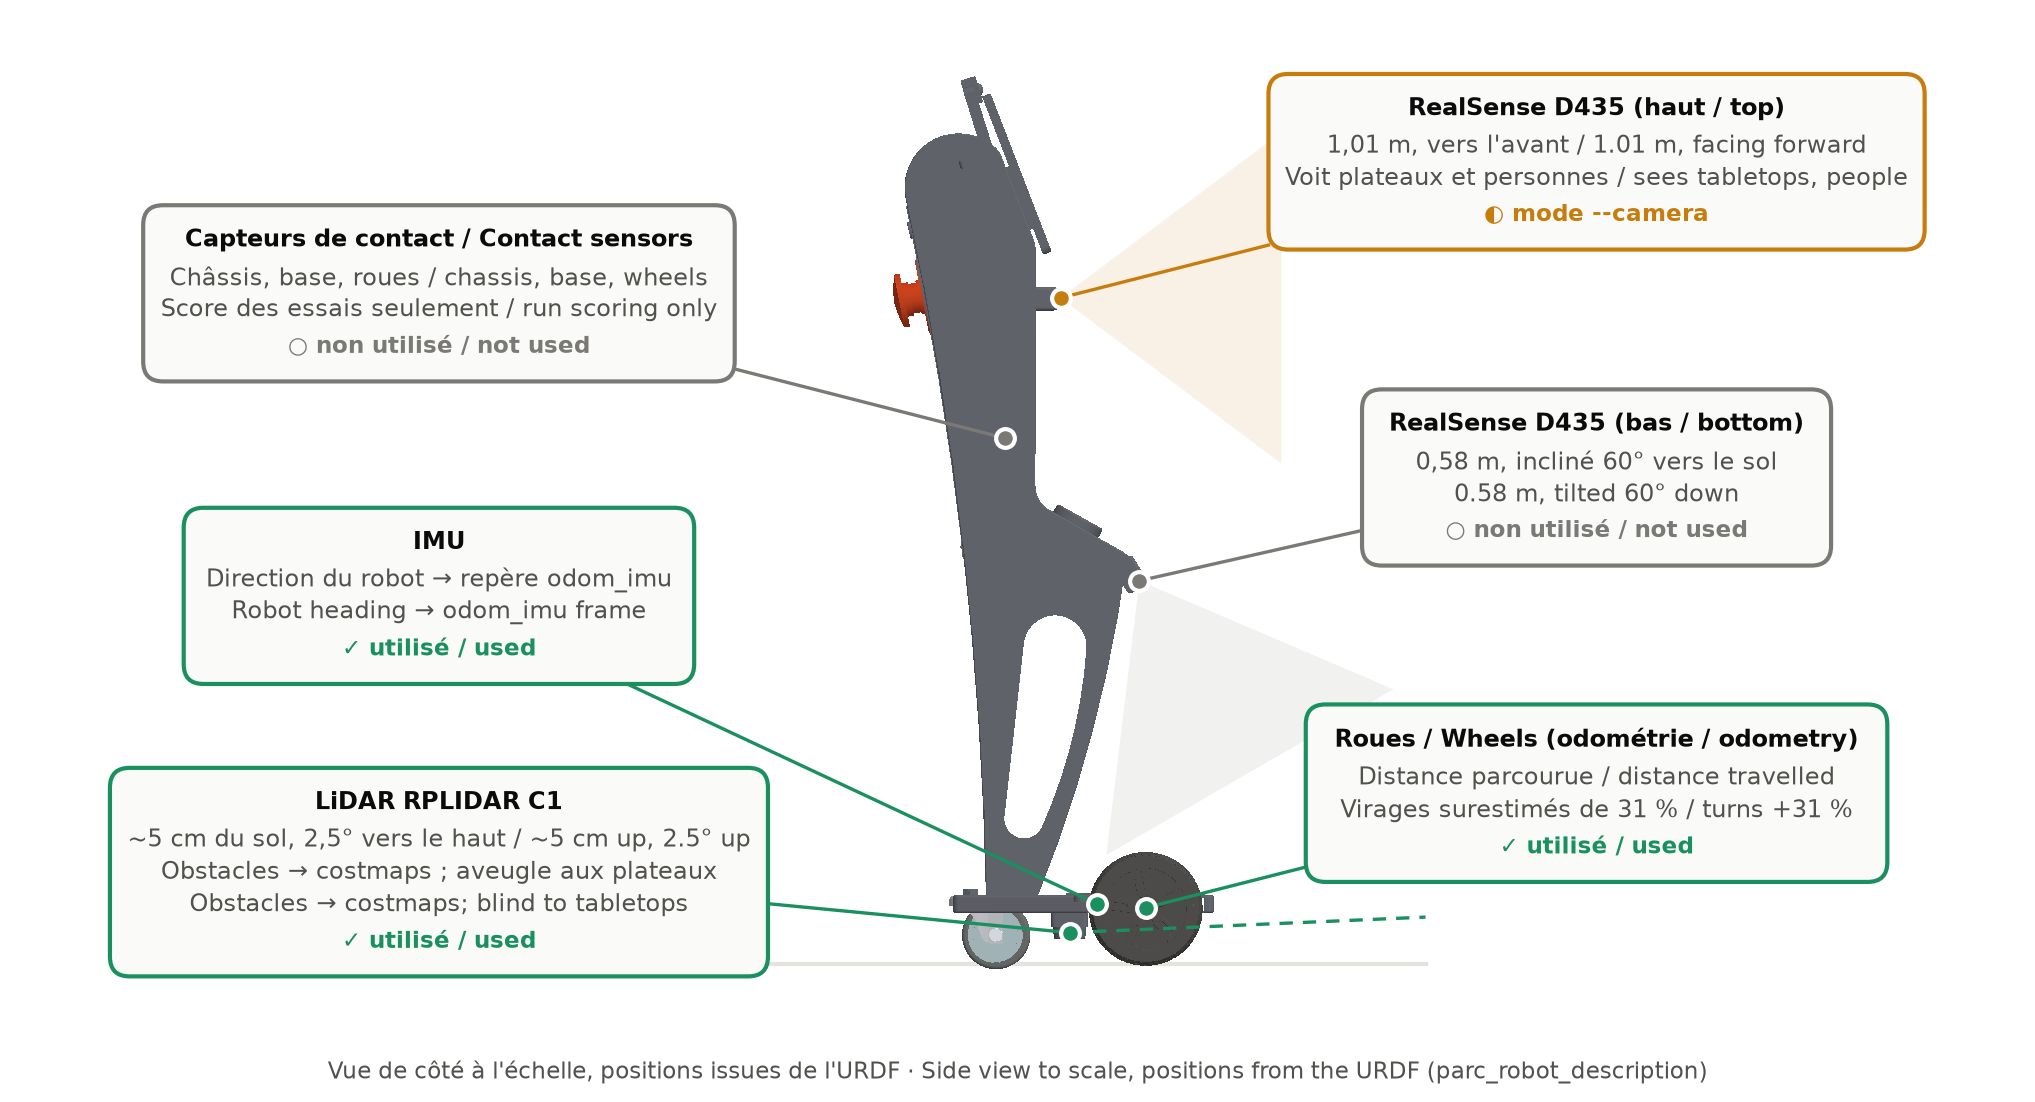
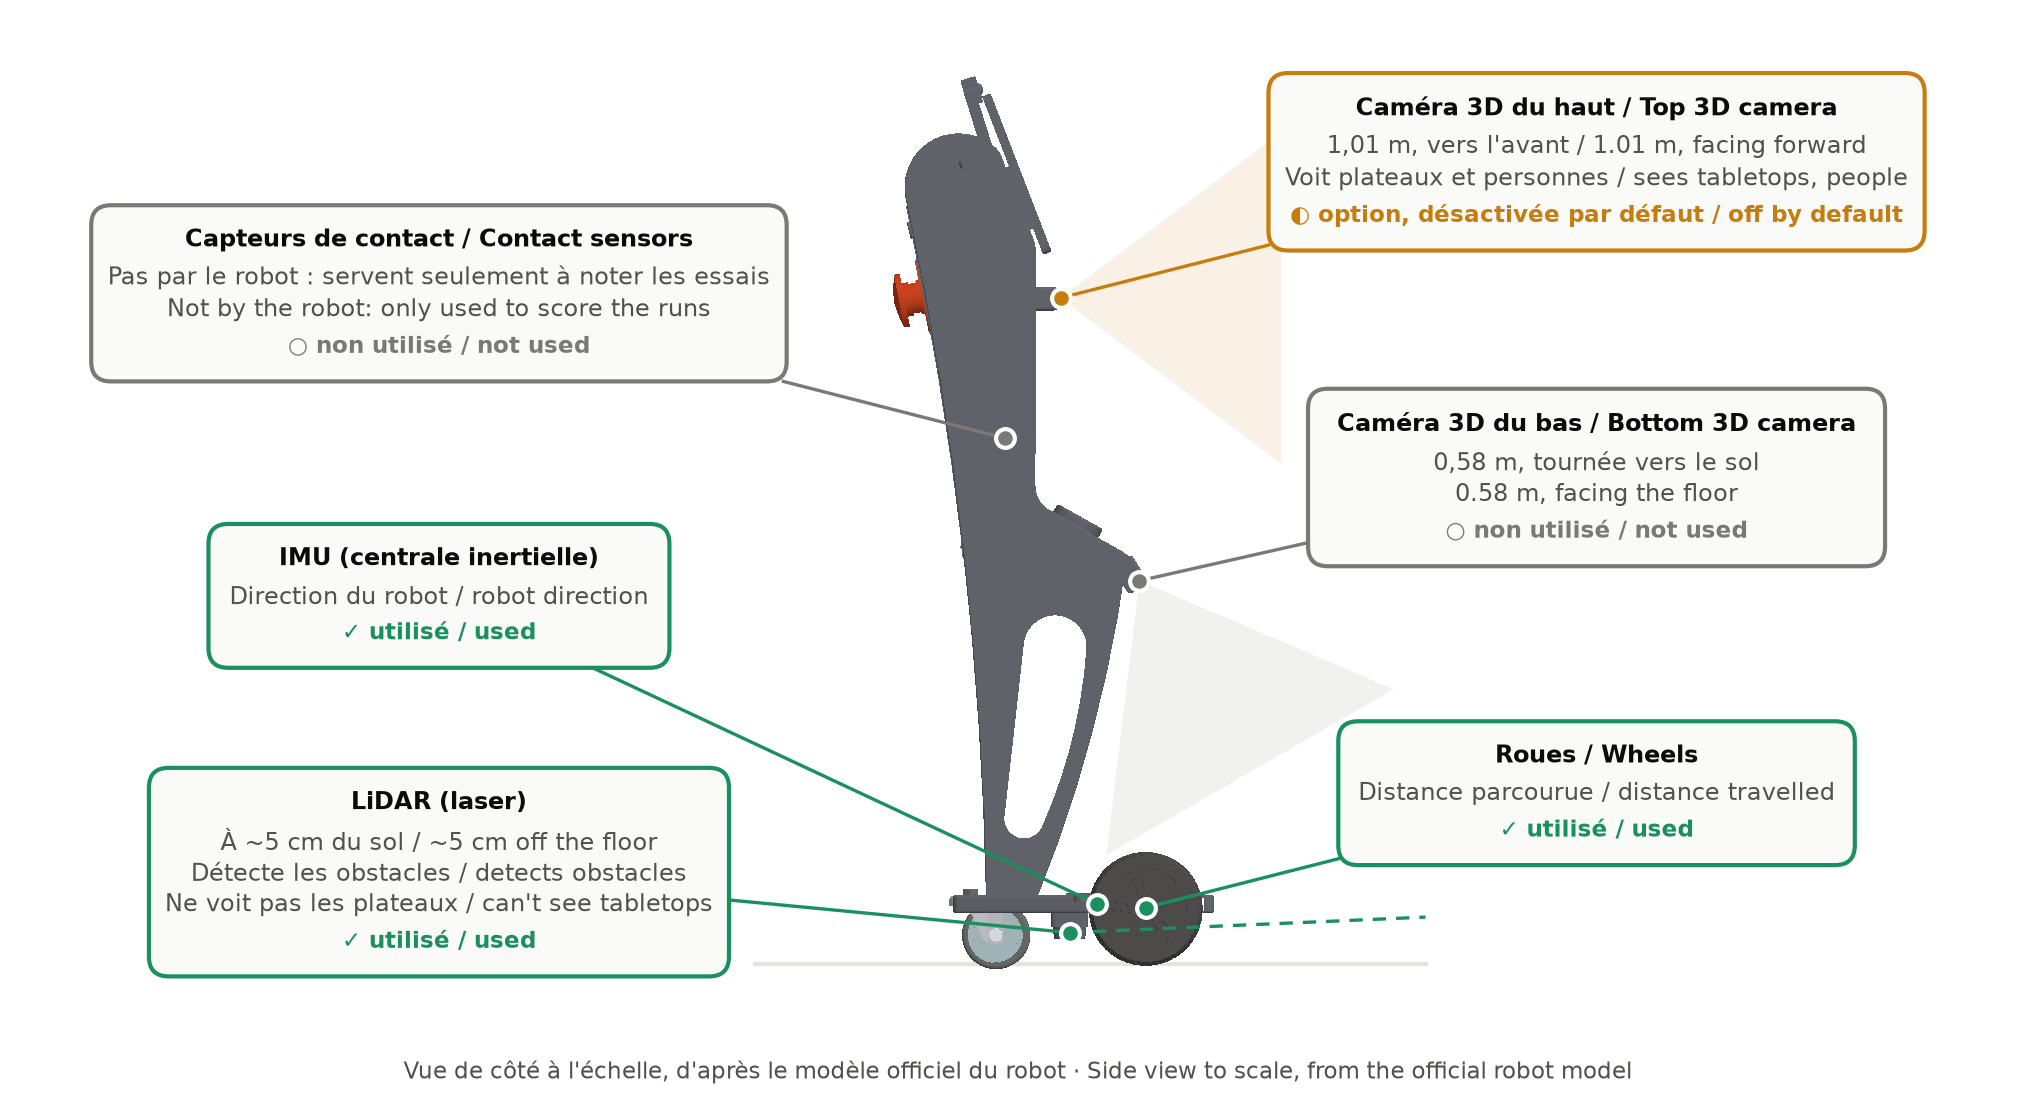
Sensor figure: plain-language callouts for use as an intro slide

diff --git a/solution/tools/robot_sensors.py b/solution/tools/robot_sensors.py
@@ -20,7 +20,7 @@ OUT = sys.argv[1] if len(sys.argv) > 1 else os.path.join(os.path.dirname(os.path
 SURFACE, INK, INK2, GRID = "#ffffff", "#0b0b0b", "#52514e", "#e4e3df"
 STATUS = {  # colour + text tag: identity is never colour alone
     "used": ("#1a8f5f", "✓ utilisé / used"),
-    "camera": ("#c77c0e", "◐ mode --camera"),
+    "camera": ("#c77c0e", "◐ option, désactivée par défaut / off by default"),
     "unused": ("#7a7975", "○ non utilisé / not used"),
 }
 
@@ -32,25 +32,23 @@ TOP_CAM = (-0.035, 1.013)
 BOTTOM_CAM = (0.085, 0.583)
 CHASSIS = (-0.12, 0.80)
 
-CALLOUTS = [  # (anchor, box centre, status, title, lines)
-    (TOP_CAM, (0.78, 1.22), "camera", "RealSense D435 (haut / top)",
+CALLOUTS = [  # (anchor, box centre, status, title, lines) — plain words: this is an intro slide
+    (TOP_CAM, (0.78, 1.22), "camera", "Caméra 3D du haut / Top 3D camera",
      ["1,01 m, vers l'avant / 1.01 m, facing forward",
       "Voit plateaux et personnes / sees tabletops, people"]),
-    (BOTTOM_CAM, (0.78, 0.74), "unused", "RealSense D435 (bas / bottom)",
-     ["0,58 m, incliné 60° vers le sol", "0.58 m, tilted 60° down"]),
-    (WHEEL, (0.78, 0.26), "used", "Roues / Wheels (odométrie / odometry)",
-     ["Distance parcourue / distance travelled",
-      "Virages surestimés de 31 % / turns +31 %"]),
+    (BOTTOM_CAM, (0.78, 0.74), "unused", "Caméra 3D du bas / Bottom 3D camera",
+     ["0,58 m, tournée vers le sol", "0.58 m, facing the floor"]),
+    (WHEEL, (0.78, 0.26), "used", "Roues / Wheels",
+     ["Distance parcourue / distance travelled"]),
     (CHASSIS, (-0.98, 1.02), "unused", "Capteurs de contact / Contact sensors",
-     ["Châssis, base, roues / chassis, base, wheels",
-      "Score des essais seulement / run scoring only"]),
-    (IMU, (-0.98, 0.56), "used", "IMU",
-     ["Direction du robot → repère odom_imu",
-      "Robot heading → odom_imu frame"]),
-    (LIDAR, (-0.98, 0.14), "used", "LiDAR RPLIDAR C1",
-     ["~5 cm du sol, 2,5° vers le haut / ~5 cm up, 2.5° up",
-      "Obstacles → costmaps ; aveugle aux plateaux",
-      "Obstacles → costmaps; blind to tabletops"]),
+     ["Pas par le robot : servent seulement à noter les essais",
+      "Not by the robot: only used to score the runs"]),
+    (IMU, (-0.98, 0.56), "used", "IMU (centrale inertielle)",
+     ["Direction du robot / robot direction"]),
+    (LIDAR, (-0.98, 0.14), "used", "LiDAR (laser)",
+     ["À ~5 cm du sol / ~5 cm off the floor",
+      "Détecte les obstacles / detects obstacles",
+      "Ne voit pas les plateaux / can't see tabletops"]),
 ]
 
 
@@ -115,8 +113,8 @@ def main():
         ax.plot([ax_, ex], [az, ez], color=color, lw=1.6, zorder=9)
         ax.plot(*anchor, "o", ms=9, mfc=color, mec="white", mew=2, zorder=11)
 
-    fig.text(0.5, 0.03, "Vue de côté à l'échelle, positions issues de l'URDF · "
-             "Side view to scale, positions from the URDF (parc_robot_description)",
+    fig.text(0.5, 0.03, "Vue de côté à l'échelle, d'après le modèle officiel du robot · "
+             "Side view to scale, from the official robot model",
              ha="center", fontsize=11, color=INK2)
     fig.savefig(OUT, dpi=150, facecolor=SURFACE, bbox_inches="tight", pad_inches=0.12)
     print("wrote", OUT)
